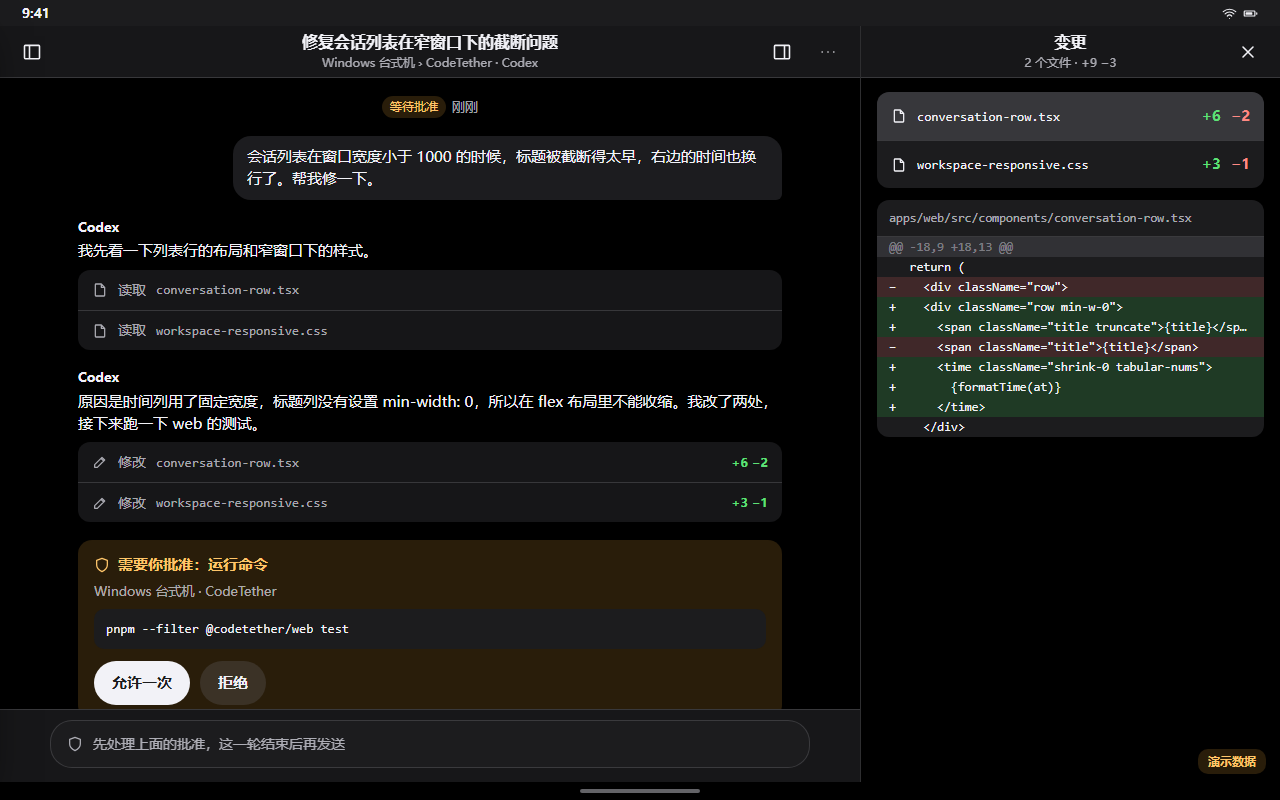
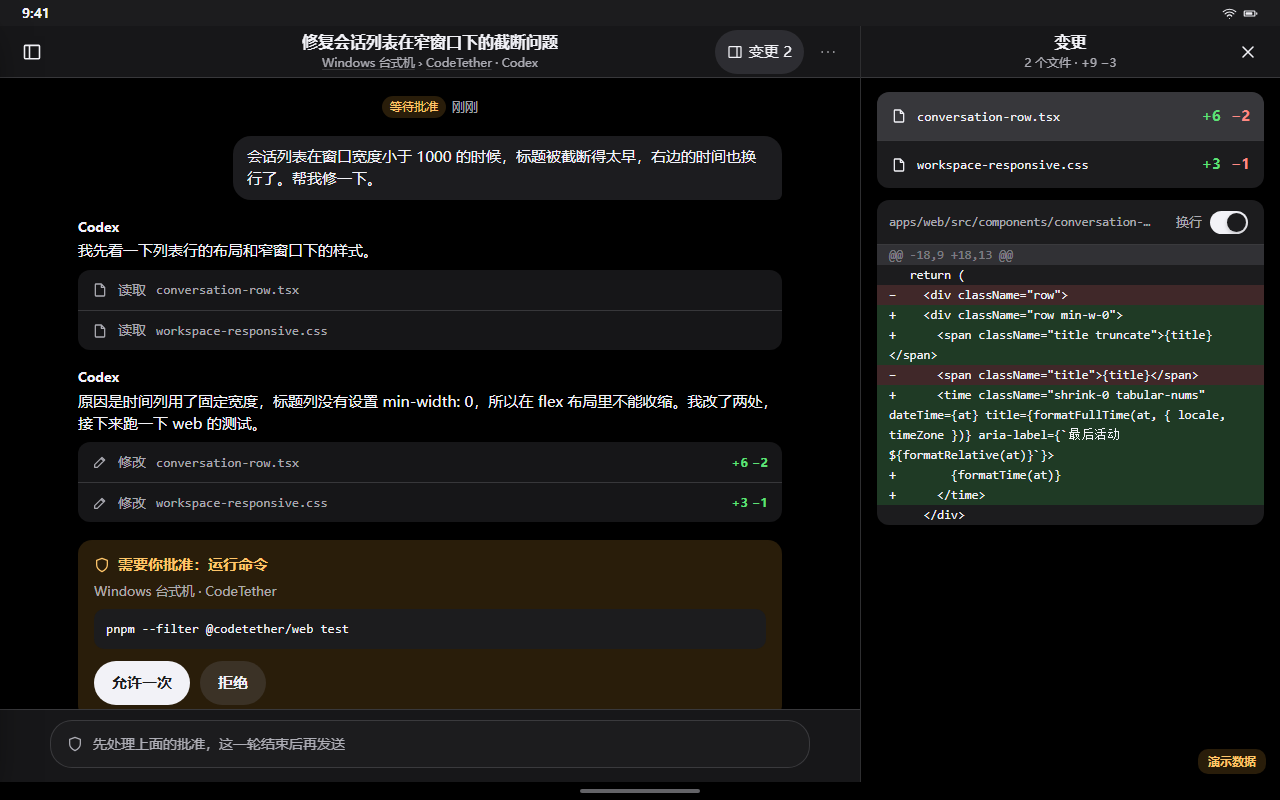
docs: tablet interaction rules decided (needs-you, changes entry, diff wrap, stop confirm, iPad back); prototype and r4 updated

Changed region(s): [[0.6875, 0.25, 1.0, 0.6562], [0.5625, 0.0312, 0.625, 0.0938]]

diff --git a/docs/ux-redesign/tablet/conversation.js b/docs/ux-redesign/tablet/conversation.js
@@ -30,7 +30,7 @@ function composer(c) {
   if (!reach(m)) return `<div class="cnote">${I('wifi_off', 'sm')}<span class="grow">${m.via ? `要等 ${$m(m.via).name} 上线才能发送` : `${m.name} 离线，上线后才能发送`}</span></div>`;
   if (c.status === 'waiting') return `<div class="cnote">${I('shield', 'sm')}<span class="grow">先处理上面的批准，这一轮结束后再发送</span></div>`;
   if (c.status === 'running') {
-    const stop = canControl(c) ? `<button class="btn danger sm" data-flash="已请求停止（演示：先解锁平板）">${I('stop', 'sm')}停止</button>` : '<span style="font-size:13px;color:var(--text-3);padding-right:10px">这台设备上不能停止</span>';
+    const stop = canControl(c) ? `<button class="btn danger sm" data-sheet="stop">${I('stop', 'sm')}停止</button>` : '<span style="font-size:13px;color:var(--text-3);padding-right:10px">这台设备上不能停止</span>';
     return `<div class="cnote"><span class="spin"></span><span class="grow">${c.step} · ${c.elapsed}</span>${stop}</div>`;
   }
   return `<div class="cbox"><textarea rows="1" placeholder="回复 ${AG[c.agent]}……"></textarea><button class="send" data-flash="演示：不会真的发送" aria-label="发送">${I('send', 'sm')}</button></div>
@@ -39,18 +39,23 @@ function composer(c) {
 
 function inspector(c, q) {
   if (!canControl(c)) return `<div class="inspector">${nav({ title: '变更', right: tb('x', '关闭', `data-go="#/c/${c.id}"`), lined: true, inner: true })}<div class="ibody"><div class="note" style="margin-top:14px">${I('info')}<span>${c.agent === 'claude' ? 'Claude Code 只读取和搜索文件，不修改文件，所以没有变更。' : '经由电脑访问的设备上还不能查看变更。'}</span></div></div></div>`;
-  const sel = Number(q.f || 0), f = DIFF[sel];
+  const sel = Number(q.f || 0), f = DIFF[sel], wrap = q.wrap !== '0';
+  const wrapSw = `<button class="tb txt" data-go="#/c/${c.id}?panel=changes&f=${sel}&wrap=${wrap ? 0 : 1}">换行<span class="sw sm ${wrap ? 'on' : ''}"></span></button>`;
   return `<div class="inspector">${nav({ title: '变更', sub: `${DIFF.length} 个文件 · +9 −3`, right: tb('x', '关闭', `data-go="#/c/${c.id}"`), lined: true, inner: true })}<div class="ibody">
     <div class="group" style="margin-top:14px">${DIFF.map((d, i) => `<button class="frow ${i === sel ? 'on' : ''}" data-go="#/c/${c.id}?panel=changes&f=${i}">${I('file', 'sm')}<code>${d.f.split('/').pop()}</code><span class="add">+${d.add}</span><span class="del">−${d.del}</span></button>`).join('')}</div>
-    <div class="diff"><div class="h">${f.f}</div>${f.lines.map(([k, t]) => `<div class="l ${k}">${k === 'a' ? '+' : k === 'd' ? '−' : k === 'at' ? '' : ' '}${esc(t)}</div>`).join('')}</div></div></div>`;
+    <div class="diff ${wrap ? 'wrap' : ''}"><div class="h"><span>${f.f}</span>${wrapSw}</div>${f.lines.map(([k, t]) => `<div class="l ${k}">${k === 'a' ? '+' : k === 'd' ? '−' : k === 'at' ? '' : ' '}${esc(t)}</div>`).join('')}</div></div></div>`;
 }
 
 function scrConv(id, q) {
   const c = $c(id);
   if (!c) return { sel: '', main: nav() + page(`<h1 class="large">找不到这个会话</h1><p class="lead">它可能已经被移除，或者属于一台已经不能访问的电脑。</p><a class="btn tint" href="#/home">回到最近的会话</a>`) };
   const p = $p(c.p), m = machineOfConv(c), panel = q.panel === 'changes';
-  const sub = `${m.name} › ${p.name} · ${AG[c.agent]}${c.imported ? ' · 导入的会话' : ''}`;
-  const right = `${tb('panel', '变更', `data-go="#/c/${id}${panel ? '' : '?panel=changes'}" ${panel ? 'class="tb on"' : ''}`)}${tb('more', '更多', 'data-menu="conv"')}`;
+  // 标题下的“设备 › 项目”可以点，回到那一层（iPad 没有系统返回键）
+  const sub = `<a href="#/devices/${m.id}">${m.name}</a> › <a href="#/projects/${p.id}">${p.name}</a> · ${AG[c.agent]}${c.imported ? ' · 导入的会话' : ''}`;
+  // 变更入口：带文字和文件数，没有变更时不显示
+  const chg = canControl(c) && DIFF.length
+    ? `<button class="tb txt chg ${panel ? 'on' : ''}" data-go="#/c/${id}${panel ? '' : '?panel=changes'}">${I('panel', 'sm')}变更 ${DIFF.length}</button>` : '';
+  const right = `${chg}${tb('more', '更多', 'data-menu="conv"')}`;
   const busy = c.status === 'running' || c.status === 'waiting';
   const menu = S.menu === 'conv' || q.menu === 'conv'
     ? `<div class="menu"><button data-flash="已置顶">${I('pin', 'sm')}${c.pinned ? '取消置顶' : '置顶'}</button><button data-sheet="rename:${id}">${I('edit', 'sm')}重命名</button>

diff --git a/docs/ux-redesign/tablet/screens.js b/docs/ux-redesign/tablet/screens.js
@@ -5,9 +5,12 @@ function scrHome(q) {
   if (q.removed) return { sel: 'home', main: nav() + page(`<h1 class="large">最近的会话</h1>
     <div class="note err" style="margin-top:14px">${I('alert')}<span><b>Windows 台式机 已把这台平板移除</b><br>要再用它，到那台电脑上打开 设备 › 添加设备，生成新的配对码，然后在这里输入。</span></div>
     <div style="margin-top:14px;display:flex;gap:10px"><button class="btn fill" data-sheet="pair">输入配对码</button><a class="btn gray" href="#/devices">看其他电脑</a></div>`) };
-  const live = D.conversations.filter((c) => c.status === 'waiting' || c.status === 'running').sort((a, b) => a.ago - b.ago);
+  // 需要你处理 = 待处理（等待批准、已完成待查看、失败），数字和侧栏角标一致；运行中的不需要你动手，单列一节
+  const todo = D.attention.map((a) => $c(a.c));
+  const running = D.conversations.filter((c) => c.status === 'running').sort((a, b) => a.ago - b.ago);
   let h = `<h1 class="large">最近的会话</h1><p class="lead">所有电脑和设备上的会话，按设备分组。</p>`;
-  h += sec('需要你处理', '', `${live.length} 个`) + `<div class="group">${live.map((c) => convRow(c, true)).join('')}</div>`;
+  h += sec('需要你处理', '<a href="#/inbox">全部</a>', `${todo.length} 个`) + `<div class="group">${todo.map((c) => convRow(c, true)).join('')}</div>`;
+  if (running.length) h += sec('正在运行', '', `${running.length} 个`) + `<div class="group">${running.map((c) => convRow(c, true)).join('')}</div>`;
   for (const m of D.machines) {
     const list = D.projects.filter((p) => p.m === m.id).flatMap((p) => convsOf(p.id)).sort((a, b) => a.ago - b.ago);
     h += sec(`${m.name}`, list.length > 5 ? `<a href="#/devices/${m.id}">查看全部</a>` : '', mSub(m));

diff --git a/docs/ux-redesign/tablet/components.css b/docs/ux-redesign/tablet/components.css
@@ -44,6 +44,7 @@ a.row:active, button.row:active { background: var(--fill); }
 .tb { width: 44px; height: 44px; border-radius: 22px; display: grid; place-items: center; color: var(--text); }
 .tb:active, .tb.on { background: var(--fill); }
 .tb.txt { width: auto; padding: 0 12px; font-weight: 500; }
+.tb.chg { display: flex; gap: 6px; align-items: center; font-size: 15px; }
 
 /* 状态 */
 .dot { width: 9px; height: 9px; border-radius: 50%; flex: none; background: var(--off); }
@@ -65,6 +66,7 @@ a.row:active, button.row:active { background: var(--fill); }
 .sw { width: 51px; height: 31px; border-radius: 16px; background: var(--fill-2); position: relative; flex: none; }
 .sw::after { content: ""; position: absolute; top: 2px; left: 2px; width: 27px; height: 27px; border-radius: 50%; background: #fff; box-shadow: 0 2px 4px rgb(0 0 0 / .2); transition: left .15s; }
 .sw.on { background: var(--accent); } .sw.on::after { left: 22px; background: var(--on-accent); }
+.sw.sm { width: 38px; height: 23px; } .sw.sm::after { width: 19px; height: 19px; } .sw.sm.on::after { left: 17px; }
 .field { width: 100%; min-height: 48px; padding: 12px 14px; border-radius: 12px; border: 0; background: var(--fill); font: inherit; color: var(--text); resize: none; }
 .check { width: 24px; height: 24px; border-radius: 50%; border: 2px solid var(--fill-2); display: grid; place-items: center; flex: none; }
 .check.on { background: var(--accent); border-color: var(--accent); color: var(--on-accent); }

diff --git a/docs/ux-redesign/tablet/conversation.css b/docs/ux-redesign/tablet/conversation.css
@@ -44,7 +44,10 @@
 .frow.on { background: var(--sel); }
 .add { color: var(--ok-text); font-weight: 600; } .del { color: var(--err-text); font-weight: 600; }
 .diff { margin-top: 12px; border-radius: 12px; overflow: hidden; background: var(--cell); font: 12.5px/1.6 ui-monospace, "SF Mono", Consolas, monospace; }
-.diff .h { padding: 8px 12px; color: var(--text-2); border-bottom: 1px solid var(--sep); font-family: inherit; }
-.diff .l { padding: 0 12px; white-space: pre; overflow: hidden; text-overflow: ellipsis; }
+.diff .h { display: flex; align-items: center; gap: 8px; min-height: 44px; padding: 0 4px 0 12px; color: var(--text-2); border-bottom: 1px solid var(--sep); font-family: inherit; }
+.diff .h > span { flex: 1; min-width: 0; overflow: hidden; text-overflow: ellipsis; white-space: nowrap; }
+.diff .h .tb { font: 13px/1 -apple-system, system-ui, sans-serif; color: var(--text-2); gap: 8px; display: flex; }
+.diff .l { padding: 0 12px; white-space: pre; overflow-x: auto; }
+.diff.wrap .l { white-space: pre-wrap; overflow-wrap: anywhere; }
 .diff .l.a { background: var(--ok-soft); } .diff .l.d { background: var(--err-soft); }
 .diff .l.at { color: var(--text-3); background: var(--fill); }

diff --git a/docs/ux-redesign/tablet/data.js b/docs/ux-redesign/tablet/data.js
@@ -76,7 +76,7 @@ window.DIFF = [
   { f: 'apps/web/src/components/conversation-row.tsx', add: 6, del: 2, lines: [
     ['at', '@@ -18,9 +18,13 @@'], ['', '  return ('], ['d', '    <div className="row">'], ['a', '    <div className="row min-w-0">'],
     ['a', '      <span className="title truncate">{title}</span>'], ['d', '      <span className="title">{title}</span>'],
-    ['a', '      <time className="shrink-0 tabular-nums">'], ['a', '        {formatTime(at)}'], ['a', '      </time>'], ['', '    </div>'] ] },
+    ['a', '      <time className="shrink-0 tabular-nums" dateTime={at} title={formatFullTime(at, { locale, timeZone })} aria-label={`最后活动 ${formatRelative(at)}`}>'], ['a', '        {formatTime(at)}'], ['a', '      </time>'], ['', '    </div>'] ] },
   { f: 'apps/web/src/styles/workspace-responsive.css', add: 3, del: 1, lines: [
     ['at', '@@ -42,6 +42,8 @@'], ['', '@media (max-width: 1000px) {'], ['d', '  .row time { width: 96px; }'],
     ['a', '  .row time { width: auto; }'], ['a', '  .row .title { min-width: 0; }'], ['a', '  .row { gap: 8px; }'], ['', '}'] ] },

diff --git a/docs/ux-redesign/tablet/router.js b/docs/ux-redesign/tablet/router.js
@@ -1,6 +1,6 @@
-// 路由：#/home #/inbox?f= #/devices #/devices/:id #/projects/:id(?view=archived&s=) #/projects/:id/search?q= #/c/:id(?panel=changes&f=)
+// 路由：#/home #/inbox?f= #/devices #/devices/:id #/projects/:id(?view=archived&s=) #/projects/:id/search?q= #/c/:id(?panel=changes&f=&wrap=0)
 //       #/settings #/settings/connection #/roadmap #/signin(?step=code) #/pair(?step=wrong|expired|done) #/home?removed=1
-// 页面参数（写在 ? 里，截图用）：theme=light|dark  o=land|port  bezel=1  side=1  modal=new|new:p-web|addproj:m-win(:name|:found)|rename:c1|archive:c9|rmproj:p-web|unpair:m-mac|pair|search  menu=conv|proj
+// 页面参数（写在 ? 里，截图用）：theme=light|dark  o=land|port  bezel=1  side=1  modal=new|new:p-web|addproj:m-win(:name|:found)|rename:c1|archive:c9|stop|rmproj:p-web|unpair:m-mac|pair|search  menu=conv|proj
 const QS = new URLSearchParams(location.search);
 document.documentElement.dataset.theme = QS.get('theme') || 'light';
 if (QS.get('bezel')) document.body.classList.add('bezel');

diff --git a/docs/ux-redesign/tablet/tablet.css b/docs/ux-redesign/tablet/tablet.css
@@ -99,6 +99,7 @@ body.bezel .screen { border-radius: 22px; outline: 14px solid #111; box-shadow: 
 .nav .center { text-align: center; min-width: 0; max-width: 56%; }
 .nav .center b { display: block; font-size: 16px; font-weight: 600; white-space: nowrap; overflow: hidden; text-overflow: ellipsis; }
 .nav .center small { display: block; font-size: 12px; color: var(--text-2); white-space: nowrap; overflow: hidden; text-overflow: ellipsis; }
+.nav .center small a { color: inherit; text-decoration: underline; text-decoration-color: var(--sep); text-underline-offset: 2px; }
 .body { flex: 1; overflow-y: auto; }
 .page { max-width: 820px; margin: 0 auto; padding: 0 28px 40px; }
 .large { font-size: 32px; font-weight: 700; letter-spacing: -.4px; margin: 6px 0 2px; }

diff --git a/docs/ux-redesign/tablet/sheets.js b/docs/ux-redesign/tablet/sheets.js
@@ -72,5 +72,6 @@ function renderSheet(s) {
   const [k, ...rest] = s.split(':'), a = rest.join(':');
   if (s.startsWith('new')) return shNew(s.slice(3));
   return ({ addproj: () => shAddProject(a), rename: () => shRename(a), 'rename-p': () => shRename(a, true), archive: () => confirmSheet('归档这个会话？', '归档后在项目的“已归档”里，可以随时恢复。', '归档'),
+    stop: () => confirmSheet('停止这一轮？', '已经做了的修改会保留，可以接着发消息。', '停止', true),
     rmproj: () => shRmProject(a), unpair: () => shUnpair(a), pair: shPair, search: shSearch }[k] || (() => ''))();
 }

diff --git a/docs/ux-redesign/09-tablet-usability.md b/docs/ux-redesign/09-tablet-usability.md
@@ -34,7 +34,7 @@
 
 ## 3. 发现的问题和建议
 
-标了“需要你定”的是改原型或改规则，你同意后我改 07 和原型，再写进修复提示词。其余的是实现没有照原型，直接修。
+标了“需要你定”的是改原型或改规则，已在第 5 节定下。其余的是实现没有照原型，直接修。
 
 **P1 首页“需要你处理”和侧栏“待处理”说的不是一回事（需要你定）**
 
@@ -82,14 +82,17 @@
 
 问题按三级记：**挡住**（做不完或会出错）、**很麻烦**（能做完但要多走、要猜、要回头）、**小问题**（样子或文字）。测完我把结果补进这一节，定下修复范围。
 
-## 5. 需要你定的
+## 5. 定下来的（2026-11-09）
+
+你同意了建议，都写进了 07 §4 的“交互规则”和原型（02-01、02-04、02-13、02-14）：
 
 1. P1：首页第一节只放要你动手的，和“待处理”一致；运行中的单列“正在运行”。
-2. P3：变更入口改成带文字和文件数的“变更 3”。
+2. P3：变更入口改成“变更 3”。
 3. P4：diff 默认换行，加“换行”开关。
-4. P5：A7 之前，停止先确认。
+4. P5、I7：A7 之前，停止先确认。
+5. I6：iPad 上“设备 › 项目”可以点，左边缘右滑返回。
 
-可以等交互测试的结果出来再定。iPad 用同一份设计，定下来以后两边一起改。
+iPad 在 r4 里做（第 14 项）。安卓等交互测试的结果出来，和测出来的问题一起写进下一轮修复。
 
 ## 6. iPad（`30e8b9f`）
 
@@ -104,17 +107,12 @@ P1 到 P8 在 iPad 上一样成立，另外有这些：
 | I3  | 很麻烦 | 会话页每 750 ms 轮询一次，失败一次就弹"操作未完成"（`AppModel.swift:841-843`）。离线时关掉又弹                                                                                                                              | r4 修              |
 | I4  | 很麻烦 | 来了新消息就滚到底（`TabletViews.swift:1195`），往上翻读的时候会被拉走，没有"回到最新"。电脑上的规则是只有已经在底部才跟随（AGENTS.md），这是实现的错（P8）                                                                 | r4 修              |
 | I5  | 很麻烦 | 横屏打开变更面板时侧栏不收起（`TabletViews.swift:253` 宽屏总是显示侧栏），会话只剩约 460 pt 宽。07 规定收起                                                                                                                 | r4 修（第 3 项）   |
-| I6  | 很麻烦 | 没有返回：路由是自己写的，不是 `NavigationStack`。横屏没有返回按钮，也不能从左边缘右滑返回，从会话回到项目只能靠侧栏。安卓有系统返回键，所以这个问题只在 iPad 上                                                            | 需要你定           |
-| I7  | 很麻烦 | 发送和停止在同一个位置（`TabletViews.swift:1226`）：点了发送，按钮马上变成停止，连点第二下就把刚开始的这一轮停了                                                                                                            | 和 P5 一起定       |
+| I6  | 很麻烦 | 没有返回：路由是自己写的，不是 `NavigationStack`。横屏没有返回按钮，也不能从左边缘右滑返回，从会话回到项目只能靠侧栏。安卓有系统返回键，所以这个问题只在 iPad 上                                                            | 已定，r4 做        |
+| I7  | 很麻烦 | 发送和停止在同一个位置（`TabletViews.swift:1226`）：点了发送，按钮马上变成停止，连点第二下就把刚开始的这一轮停了                                                                                                            | 已定，r4 做        |
 | I8  | 待测   | 复制：`.textSelection(.enabled)` 在 iOS 上大概只能长按整段复制，不能选其中一部分；diff 每一行是单独一段，一次只能复制一行（P7）                                                                                              | 测完定             |
 | I9  | 待测   | 字号都写死成 `.system(size:)`，系统设置里的"更大字体"大概不起作用                                                                                                                                                            | 测完定             |
 | I10 | 待测   | iPad 上常见的做法都没有：会话行的长按菜单和右键菜单、触控板指针的悬停效果、左滑操作。原型里也没画                                                                                                                            | 测完看用户找不找   |
 | I11 | 小问题 | 新建会话预选第一个可用的项目，不是当前页的项目（P2）；新建窗口里 ⌘↩ 不起作用                                                                                                                                                 | 和 P2 一起修       |
 | I12 | 小问题 | 被移除页的电脑名取的是"第一台不可用的电脑"（`AppModel.swift:884`），有几台电脑时可能写错                                                                                                                                  | r4 修              |
-
-**需要你定**（加到第 5 节）：
-
-5. I6：会话页标题下面的"设备 › 项目"做成可以点的返回路径，再加上从左边缘右滑返回。只在 iPad 上做，安卓用系统返回键。
-6. I7：P5 的停止确认一并解决误触；不加确认的话，停止按钮要和发送分开放。
 
 真机交互测试：`docs/reviews/i1-ipad-interaction-test-prompt.md`，在 r4 推送、审核以后做。

diff --git a/docs/reviews/i1-fix-prompt-r4.md b/docs/reviews/i1-fix-prompt-r4.md
@@ -39,6 +39,7 @@
 11. **按原型还原**：在 iPad 上逐页截图对照原型，照 `t1a-tablet-fidelity-prompt.md` 第 4 到 9 项的标准还原（列表和分段、变更面板、会话、新建、设备、设置）。后端没有数据的，不编造、不改后端，列出来。
 12. **构建脚本的两处小问题**（审核建议改第 1、2 项）：`build.sh` 里定义了没用到的 `XCODEBUILD_OPTIONS`，删掉；`verify-build-config.mjs` 对三项 Relay 配置只检查非空，要么真的检查形状，要么输出改成"present"。
 13. **新建会话预选项目**（09 的 P2、I11）：从项目页、设备页、侧栏项目行打开时，预选那个项目，现在总是预选第一个可用的；第一句话的输入框至少 4 行；新建窗口里 ⌘↩ 开始。
+14. **定下来的交互规则**（`07-tablet.md` §4 的“交互规则”，原型 02-01、02-04、02-13、02-14 已更新）：首页“需要你处理”和“正在运行”分开；“变更 N”入口；diff 默认换行和“换行”开关；停止先确认；会话标题下的“设备 › 项目”可以点，从左边缘右滑返回上一页。
 
 **不在这轮**：T1b 的功能（置顶、重命名、添加和移除项目、以前的会话、项目内搜索、通知、后台、解锁），原型里画了也继续不显示。
 
@@ -50,7 +51,7 @@
   - **不确定**：连接断开、`connection_failed`、`session_expired`、`authorization_revoked`、`remote_host_unreachable`、`timeout`、`invalid_response`、`internal`、`protocol_error`、`unavailable`，以及重试前的读取或连接失败。
   - iPad 现在的分类如果和这两组不一致（比如把 `unavailable` 当成明确失败），照这两组改，并补测试；已经一致就写明。不要为这部分改别的行为。
 - 测试要走真实的代码路径（`TabletAppModel`、`SupervisorClient` 加假的连接），宽窄切换用 UI 测试或快照覆盖。
-- **规模**：改动超过约 30 个文件或 3000 行（不算测试和截图）时，先完成 1 到 10 并推送，再做 11 到 13，报告里说明。
+- **规模**：改动超过约 30 个文件或 3000 行（不算测试和截图）时，先完成 1 到 10 并推送，再做 11 到 14，报告里说明。
 - 构建、签名、安装沿用上一轮的做法。
 
 ## 边界
@@ -67,7 +68,7 @@
 
 追加到 `~/agenthub-archive/i1-report.md`，新开一节"r4 修复"：
 
-- 1 到 13 每一项改了什么、对应的提交，推送后的远端提交；
+- 1 到 14 每一项改了什么、对应的提交，推送后的远端提交；
 - 验收失败项里哪些修了、哪些不在 iOS 侧（原因）；
 - 宽窄切换和被移除页的测试结果；
 - iPad 上每个原型页的截图，还剩的差异和原因；

diff --git a/docs/reviews/t1a-tablet-interaction-test-prompt.md b/docs/reviews/t1a-tablet-interaction-test-prompt.md
@@ -70,6 +70,7 @@
 - **测试项目**：Windows 上的 `T1a TB375FC tablet acceptance`。写操作只用这个项目。造长会话和大 diff 可以让真实的 Codex 在这个项目里跑，任务要小。
 - **已知的数据缺口**（报告里列过，不算可用性问题，看到就注明）：项目根路径、初次配对和最近使用日期、运行的百分比。
 - **已知没做的**：T1b 的功能（项目内搜索、添加项目、导入以前的会话、置顶、重命名）、通知、后台保持连接、批准前解锁。原型里画了，界面上没有，这是预期的。
+- **已定、还没做的改动**（`07-tablet.md` §4 的“交互规则”，2026-11-09 定）：“需要你处理”和“正在运行”分开、“变更 N”入口、diff 换行开关、停止先确认、新消息不拉走。945c849 上还是旧的，照常记现象，对应到 P1 到 P8 就行，不用当新问题。
 - **实体键盘**：用户没有，键盘快捷键记"未测"。
 - 截图只截平板屏幕；录屏只录平板屏幕，结束后告诉用户文件在哪里，不要上传。
 
